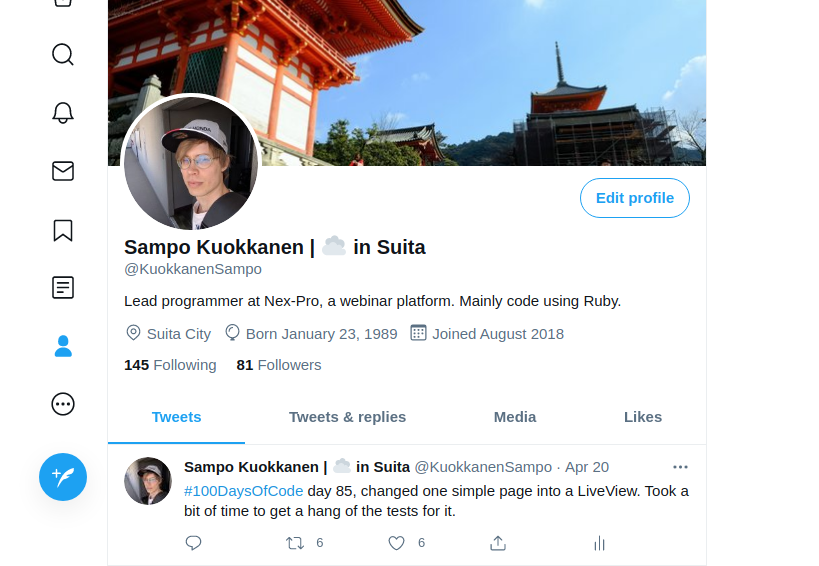
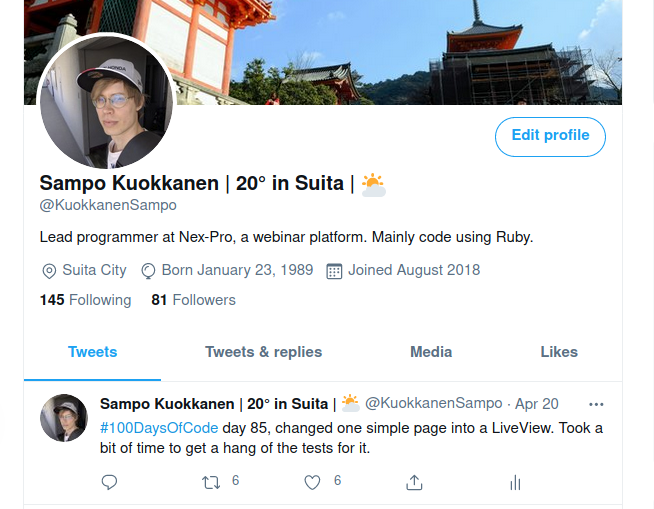
change screenshot and readme

diff --git a/README.md b/README.md
@@ -6,10 +6,10 @@ My Twitter [@KuokkanenSampo](https://twitter.com/KuokkanenSampo), where you can 
 
 <img src="https://github.com/sampokuokkanen/twitter-emoji-weather/blob/main/upload/profile.png">
 
-Inspired by the project [Twitter automatic name changer based on your followers](https://github.com/raghavkhanna30/twitter-auto-name-changer), and indeed most of the source is also identical. So thanks for [Raghav Khanna](https://twitter.com/erRaghavKhanna) for the original project!
+Inspired by the project [Twitter automatic name changer based on your followers](https://github.com/raghavkhanna30/twitter-auto-name-changer), and indeed I have borroweded many parts from the source of the orignal project. So thanks for [Raghav Khanna](https://twitter.com/erRaghavKhanna) for the original project!
 
 
-This bot will automatically change your name based the current weather in your location followers (Written in Python) once in 15 minutes. It fetches the current weather using the OpenWeather API. 
+This bot will automatically change your name based the current weather in your location followers (Written in Python) once in 15 minutes. It fetches the current weather using the OpenWeather API. It will show the weather in Celcius and a weather icon after your username. Also easy to change to Fahrenheit. 
 
 ## Usage
 
@@ -29,7 +29,7 @@ go to the twitter developers page.
 In the Create an app enter the informations like app name, app description and so on. it asked me to clearly explain the reason of how I'm going to use the app
 After reviewing the terms, app will be created. 
 Add permission to do post requests to the app. 
-Note down the Consumer API key, Consumer API Secret key and access token, access token secret, username, and OpenWeather API keys!
+Note down the Consumer API key, Consumer API Secret key and access token, access token secret, and also remember to get an OpenWeather API key!
 
 ## Step 2 - updating config.py
 
@@ -41,8 +41,3 @@ after that save it.
  ## Heroku deployment
  
  for this you need to create a Procfile with worker as mainbot.py and that's it! There is a sample one in this repository which you can use. 
- 
- 
-
- 
- 
